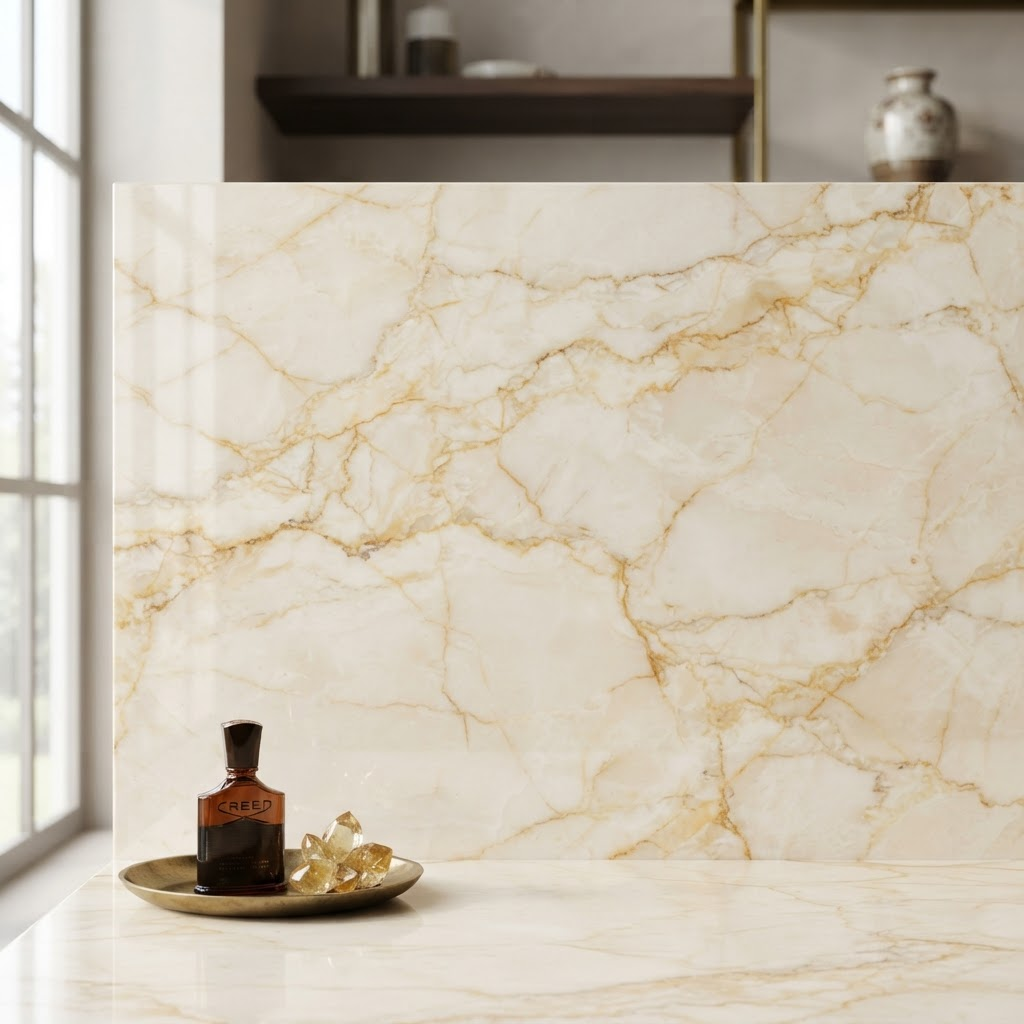
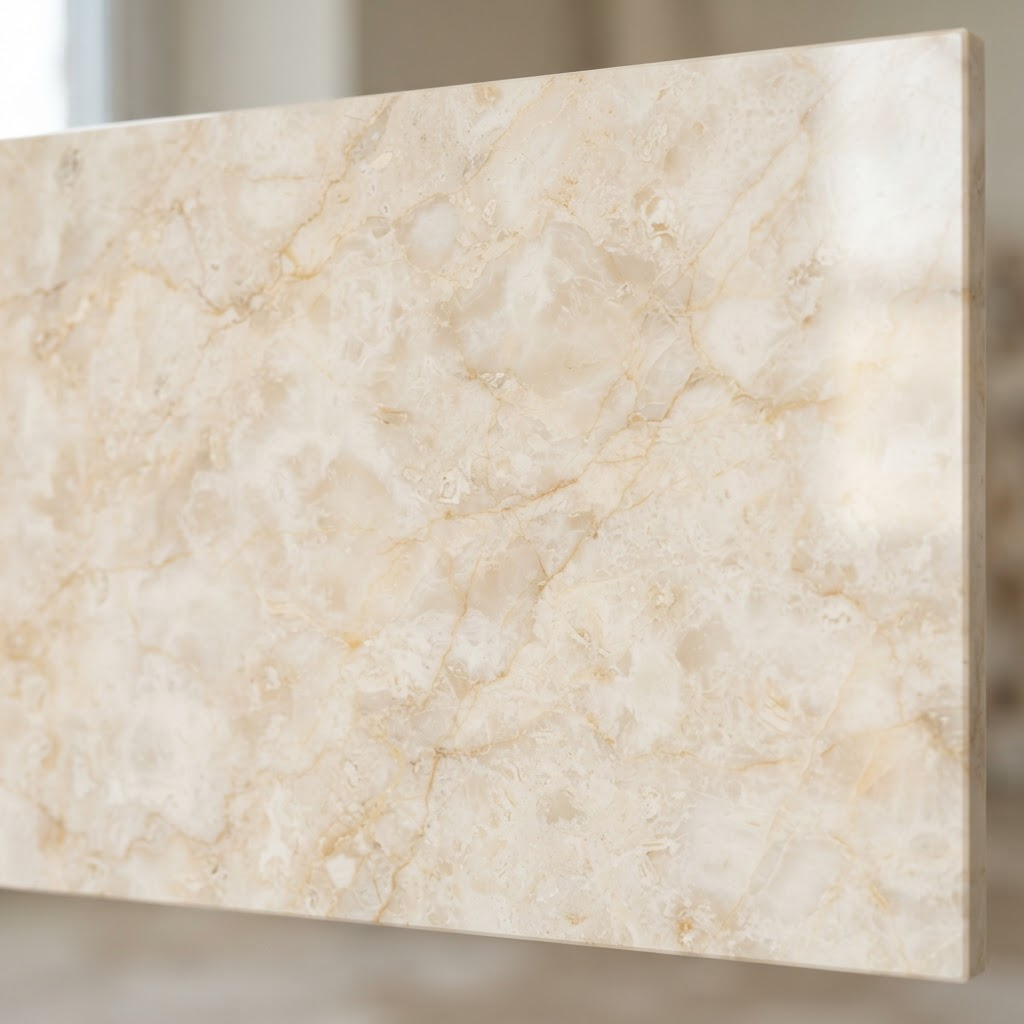
Generate unique marble texture close-ups for all 12 Beautiful Beige varieties
BEAUTIFUL BEIGE COLLECTION - 12 UNIQUE TEXTURES:

1. D Martino - Warm creamy with brown veining
2. Crema Nova - Light creamy with subtle veining
3. Creama Perfeta - Warm with golden flowing veining
4. Perlato Sicilia - Mediterranean with pearl veining
5. Crema Marfil - Light creamy with ivory undertones
6. Crema Bellisimo - Beautiful warm with golden brown veining
7. Velvet Cream - Soft velvety cream with tan veining
8. Oracle Beige - Sophisticated with prominent tan/brown veining
9. Brescia Aurora - Light with rosy gold sunrise veining
10. Ottoman Beige - Rich warm with darker brown accents
11. Crema Siena - Warm with Tuscan-inspired brown veining
12. Brescia Marine - Light warm with grey-beige veining

TESTED:
✓ Mobile 330x697: Hero and Available Varieties display correctly
✓ Tablet 768x1024: 2-column grid with all 12 textures visible
✓ Desktop 1137x775: 3-column grid layout perfect

diff --git a/lib/marble-collections-data.ts b/lib/marble-collections-data.ts
@@ -46,16 +46,16 @@ export const marbleCollections: Record<string, MarbleCollection> = {
     varieties: [
       { name: 'D Martino', image: '/images/variety-d-martino.png' },
       { name: 'Crema Nova', image: '/images/variety-crema-nova.png' },
-      { name: 'Creama Perfeta', image: '/images/marble-beautiful-beige.png' },
-      { name: 'Perlato Sicilia', image: '/images/variety-crema-nova.png' },
+      { name: 'Creama Perfeta', image: '/images/variety-creama-perfeta.png' },
+      { name: 'Perlato Sicilia', image: '/images/variety-perlato-sicilia.png' },
       { name: 'Crema Marfil', image: '/images/variety-crema-marfil.png' },
-      { name: 'Crema Bellisimo', image: '/images/marble-beautiful-beige.png' },
-      { name: 'Velvet Cream', image: '/images/variety-d-martino.png' },
-      { name: 'Oracle Beige', image: '/images/variety-crema-marfil.png' },
-      { name: 'Brescia Aurora', image: '/images/marble-beautiful-beige.png' },
-      { name: 'Ottoman Beige', image: '/images/variety-d-martino.png' },
-      { name: 'Crema Siena', image: '/images/variety-crema-nova.png' },
-      { name: 'Brescia Marine', image: '/images/marble-beautiful-beige.png' },
+      { name: 'Crema Bellisimo', image: '/images/variety-crema-bellisimo.png' },
+      { name: 'Velvet Cream', image: '/images/variety-velvet-cream.png' },
+      { name: 'Oracle Beige', image: '/images/variety-oracle-beige.png' },
+      { name: 'Brescia Aurora', image: '/images/variety-brescia-aurora.png' },
+      { name: 'Ottoman Beige', image: '/images/variety-ottoman-beige.png' },
+      { name: 'Crema Siena', image: '/images/variety-crema-siena.png' },
+      { name: 'Brescia Marine', image: '/images/variety-brescia-marine.png' },
     ],
   },
   'wow-white': {
